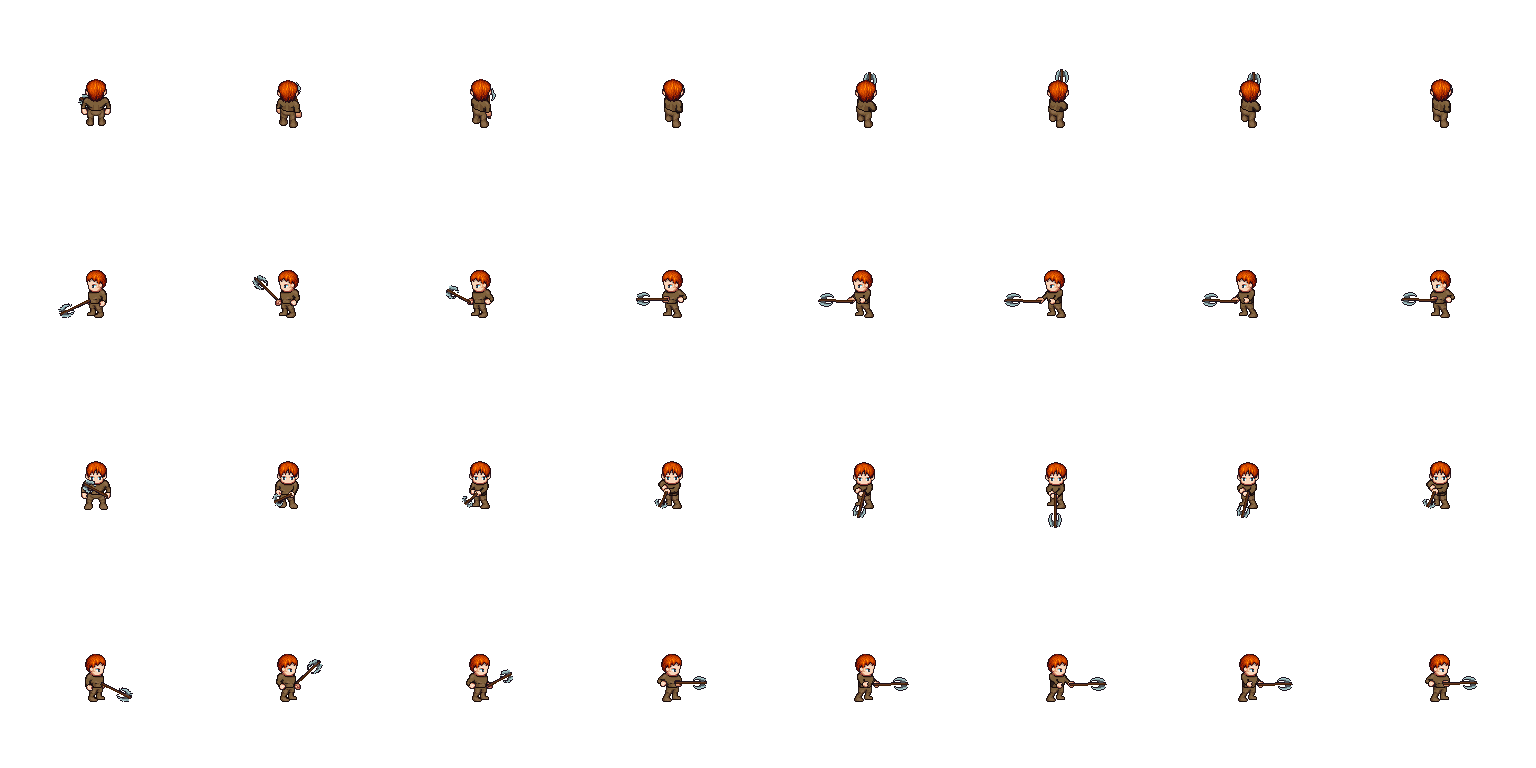
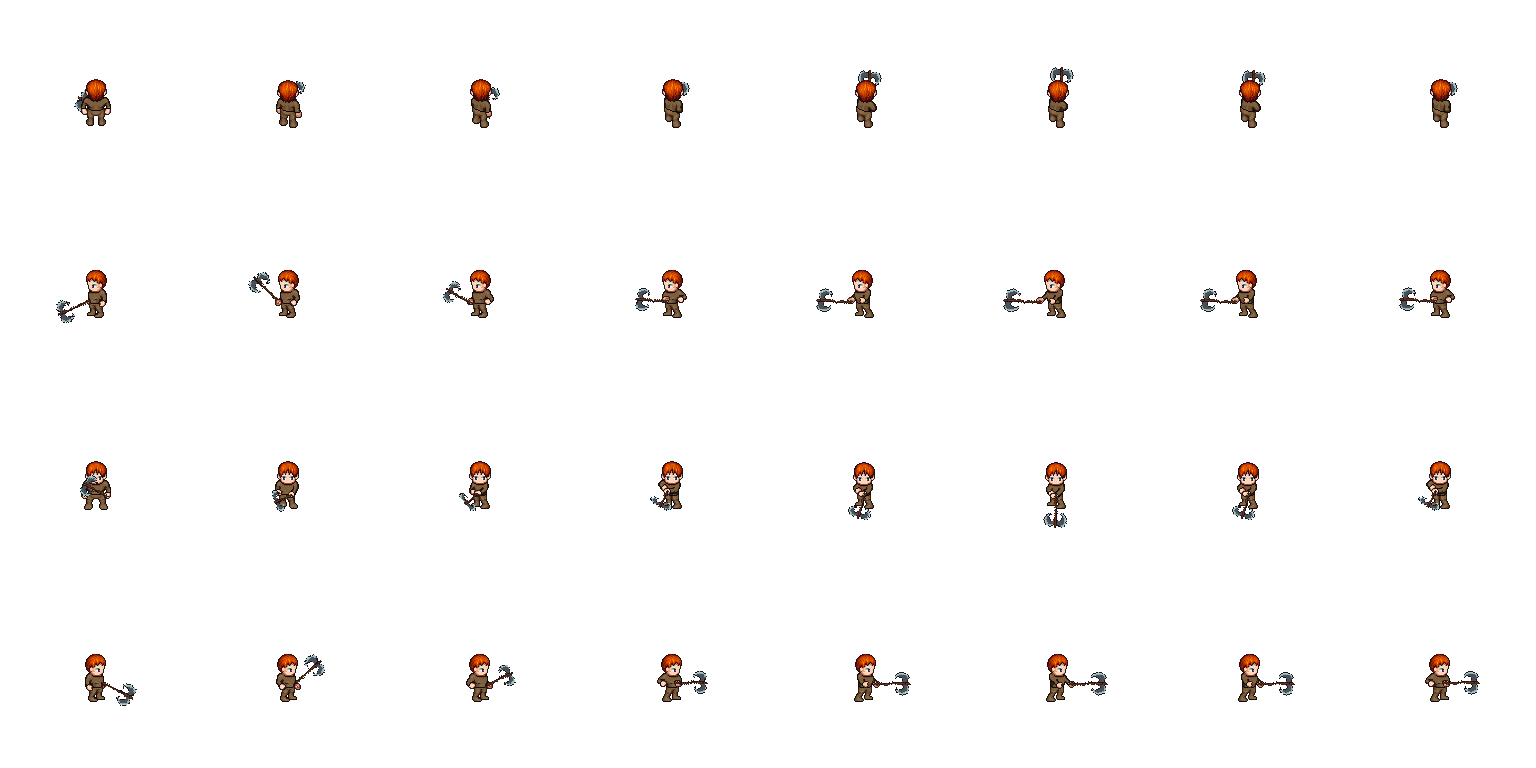
공통 무기 동작을 근접 무기 전부에: 칼·둔기·장병기 16종에 없는 내려베기·올려베기·찌르기 자동 생성 (곤봉 제외)

diff --git a/tools/weapon_moves.py b/tools/weapon_moves.py
@@ -53,29 +53,58 @@ def opaque(im):
 
 
 def upright(k):
-    """그 무기의 모든 그림 칸 중 가장 길고 곧게 보이는 칸을 골라, 끝이 위로 서게 돌린 그림"""
-    best = None
+    """그 무기의 모든 그림 칸 중 가장 길고 곧게 보이는 칸을 골라, 끝이 위로 서게 돌린 그림.
+    똑바로 놓인 칸이 없으면 기울기 허용을 넓혀 가며 찾는다"""
+    # 걷기 칸(무기를 그냥 든 모습, 잔상 없음)에서 먼저 찾고, 없으면 다른 동작에서. 뭉툭한 무기는 마지막에 잔상 거르기 없이
+    for walk, tol, dense in ((1, 4, 5), (1, 12, 5), (1, 45, 6), (0, 4, 5), (0, 12, 5), (0, 45, 5)):
+        best = pick_cell(k, tol, dense * (1.6 if WL[k][1] == '둔기' else 1), walk)   # 도끼·메이스는 머리가 넓어 점이 많음
+        if best:
+            return finish(k, best)
+    return None   # 잔상 없이 무기만 그려진 칸이 없음 (곤봉 등) → 만들지 않음
+
+
+def sheets_of(k):
+    """동작마다 무기 층(앞·뒤)을 합친 그림. 삼지창·낫처럼 앞층·뒷층으로 나뉜 무기도 한 장으로"""
+    out = {}
     for l in weapon_layers(k):
-        anims = [l['custom']] if l['custom'] else ['walk', 'slash', 'thrust']   # 맞기(hurt)는 무기가 떨어져 조각나 있어 뺌
-        for anim in anims:
+        for anim in ([l['custom']] if l['custom'] else ['walk', 'slash', 'thrust']):   # 맞기(hurt)는 무기가 조각나 있어 뺌
             f = B.file_for(l, anim)
             if not f:
                 continue
             im = Image.open(f).convert('RGBA')
-            Z = 192 if 'oversize' in anim else 128 if '128' in anim else 64
-            for r in range(im.size[1] // Z):
-                for c in range(im.size[0] // Z):
-                    cell = im.crop((c * Z, r * Z, c * Z + Z, r * Z + Z))
-                    pts = opaque(cell)
-                    if len(pts) < 12:
-                        continue
-                    ctr, u, lo, hi, w = pca(pts)
-                    ang = math.degrees(math.atan2(u[1], u[0])) % 90
-                    if min(ang, 90 - ang) > 4:   # 똑바로 가로·세로로 놓인 칸만 (비스듬한 칸을 돌리면 칼날이 톱니처럼 깨짐)
-                        continue
-                    score = (hi - lo) - 1.5 * w   # 길고 가늘수록
-                    if not best or score > best[0]:
-                        best = (score, cell, ctr, u, lo, hi, Z, f'{anim} {r},{c}')
+            if anim in out and out[anim].size == im.size:
+                out[anim].alpha_composite(im)
+            elif anim not in out:
+                out[anim] = im
+    return out
+
+
+def pick_cell(k, tol, dense, walk_only):
+    best = None
+    for anim, im in sheets_of(k).items():
+        if walk_only and not anim.startswith('walk'):
+            continue
+        Z = 192 if 'oversize' in anim else 128 if '128' in anim else 64
+        for r in range(im.size[1] // Z):
+            for c in range(im.size[0] // Z):
+                cell = im.crop((c * Z, r * Z, c * Z + Z, r * Z + Z))
+                pts = opaque(cell)
+                if len(pts) < 12:
+                    continue
+                ctr, u, lo, hi, w = pca(pts)
+                ang = math.degrees(math.atan2(u[1], u[0])) % 90
+                if min(ang, 90 - ang) > tol:   # 똑바로 가로·세로로 놓인 칸만 (비스듬한 칸을 돌리면 칼날이 톱니처럼 깨짐)
+                    continue
+                dens = len(pts) / max(1, hi - lo)
+                if dens > dense:   # 휘두름 잔상이 낀 칸 (길이에 비해 점이 너무 많음)
+                    continue
+                score = (hi - lo) - 1.5 * w - 3 * max(0, dens - 3)   # 길고 가늘수록, 잔상이 적을수록
+                if not best or score > best[0]:
+                    best = (score, cell, ctr, u, lo, hi, Z, f'{anim} {r},{c}')
+    return best
+
+
+def finish(k, best):
     _, cell, (mx, my), (ux, uy), lo, hi, Z, where = best
     # 끝 쪽 = 쇠(회색·푸른빛, 칼날·도끼날·창끝)가 모인 쪽, 반대쪽이 손잡이
     px = cell.load()
@@ -169,6 +198,8 @@ def main():
     ref = max(t['len'] for tpl, _, _ in tpls.values() for row in tpl for t in row if t and not t['smear'])
     for k in ids:
         wimg = upright(k)
+        if wimg is None:
+            print(f'  {k}: 무기만 깨끗이 그려진 칸이 없어 건너뜀'); continue
         frac = GRIP.get(WL[k][1], 0.15)
         for move, (tpl, cols, rows) in tpls.items():
             fr = Image.new('RGBA', (cols * 192, rows * 192)); bk = Image.new('RGBA', (cols * 192, rows * 192))
